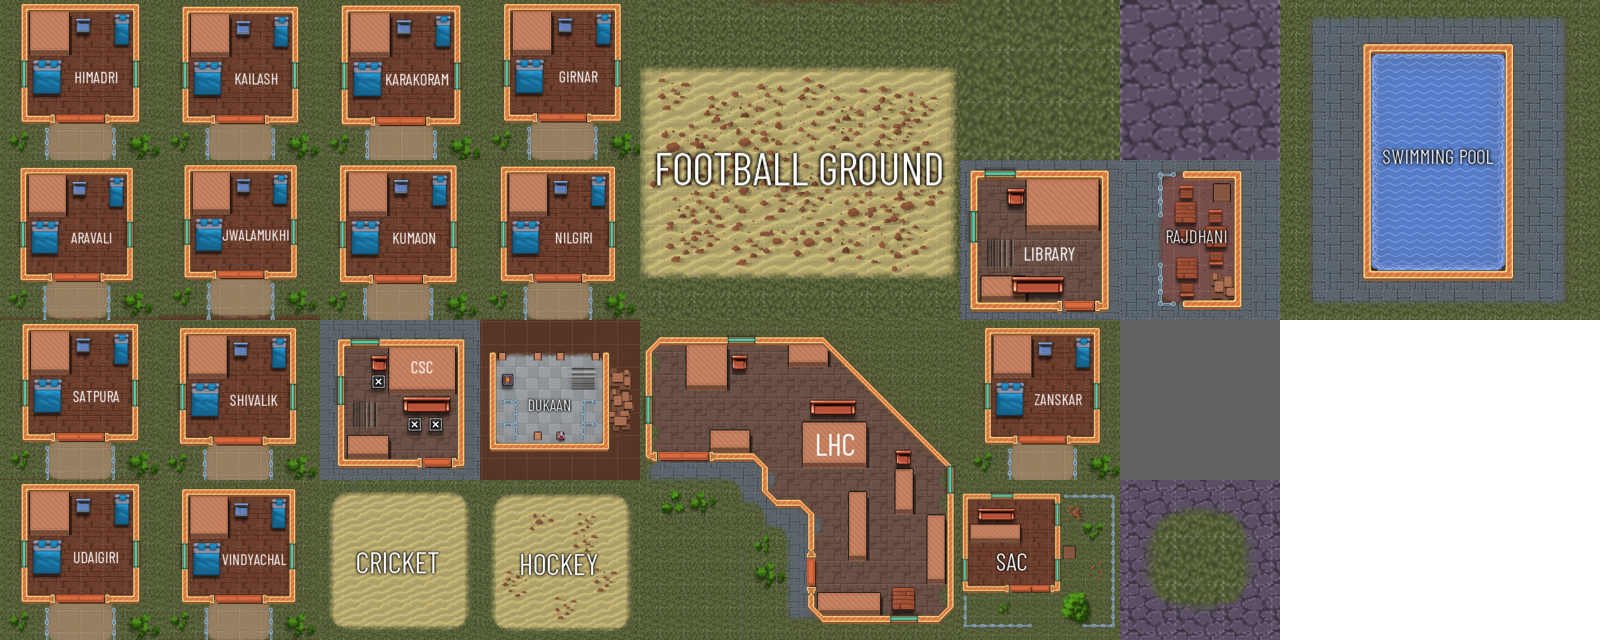
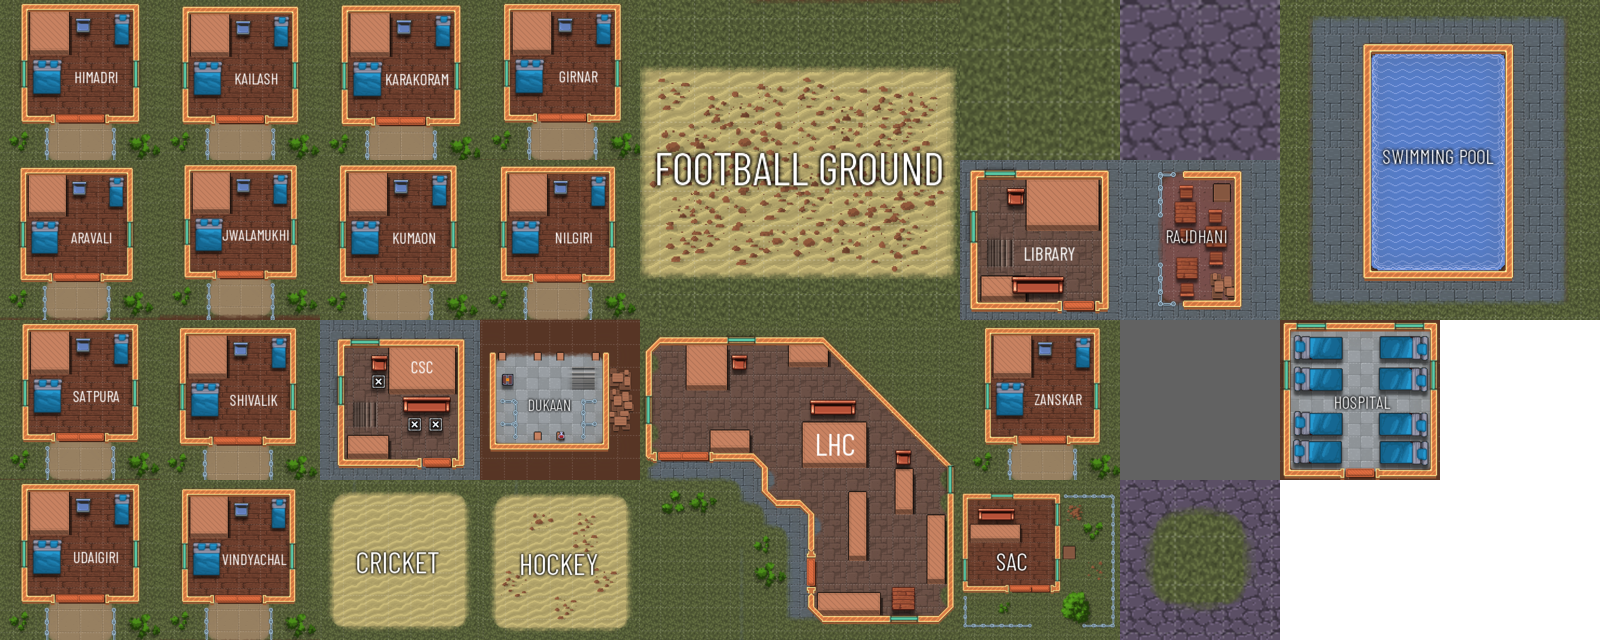
map sized increased

Changed region(s): [[0.7812, 0.5, 0.9062, 0.75]]

diff --git a/Task2/src/map.cpp b/Task2/src/map.cpp
@@ -35,13 +35,13 @@ const int SCREEN_WIDTH = 960;
 const int SCREEN_HEIGHT = 540;
 
 //The dimensions of the level
-const int LEVEL_WIDTH = 2400;
-const int LEVEL_HEIGHT = 1440;
+const int LEVEL_WIDTH = 3200;
+const int LEVEL_HEIGHT = 1600;
 
 //Tile constants
 const int TILE_WIDTH = 160;
 const int TILE_HEIGHT = 160;
-const int TOTAL_TILES = 135;
+const int TOTAL_TILES = 200;
 const int TOTAL_TILE_SPRITES = 40;
 
 //The different tile sprites
@@ -81,6 +81,7 @@ const int TILE_POOL1 = 32;
 const int TILE_POOL2 = 33;
 const int TILE_POOL3 = 34;
 const int TILE_POOL4 = 35;
+const int TILE_HOSP = 36;
 SDL_Rect gTileClips[TOTAL_TILE_SPRITES];
 
 class Map
@@ -200,7 +201,7 @@ public:
 
 void setTiles(Tile* tiles[]){
     int x=0,y=0;
-    std::ifstream map("./assets/lazy1.map");
+    std::ifstream map("./assets/tilespr.map");
     if(map.fail()){
         std::cerr<<"Unable to load map"<<std::endl;
         exit(1);
@@ -380,5 +381,9 @@ void setTiles(Tile* tiles[]){
 	gTileClips[ TILE_POOL4 ].y = 160;
 	gTileClips[ TILE_POOL4 ].w = TILE_WIDTH;
 	gTileClips[ TILE_POOL4 ].h = TILE_HEIGHT;
+	gTileClips[ TILE_HOSP ].x = 1280;
+	gTileClips[ TILE_HOSP ].y = 320;
+	gTileClips[ TILE_HOSP ].w = TILE_WIDTH;
+	gTileClips[ TILE_HOSP ].h = TILE_HEIGHT;
     map.close();
 }

diff --git a/Task2/src/game.cpp b/Task2/src/game.cpp
@@ -125,7 +125,7 @@ public:
 
     void loadplayers(){
         player1= new Character(240,0);
-        player2= new Character(2240,160);
+        player2= new Character(3040,160);
         if (i == 0){
             S = new Server("127.0.0.1");
         }
@@ -149,9 +149,9 @@ public:
     }
     void update(Tile* tileSet[],bool lifeflag){
         if(lifeflag){
-            life= new Character(540,880);
+            life= new Character(860,880);
         }else{
-            life= new Character(1540,880);
+            life= new Character(2340,880);
         }
         if(i == 0){
             if(player1->attack(player2)){
